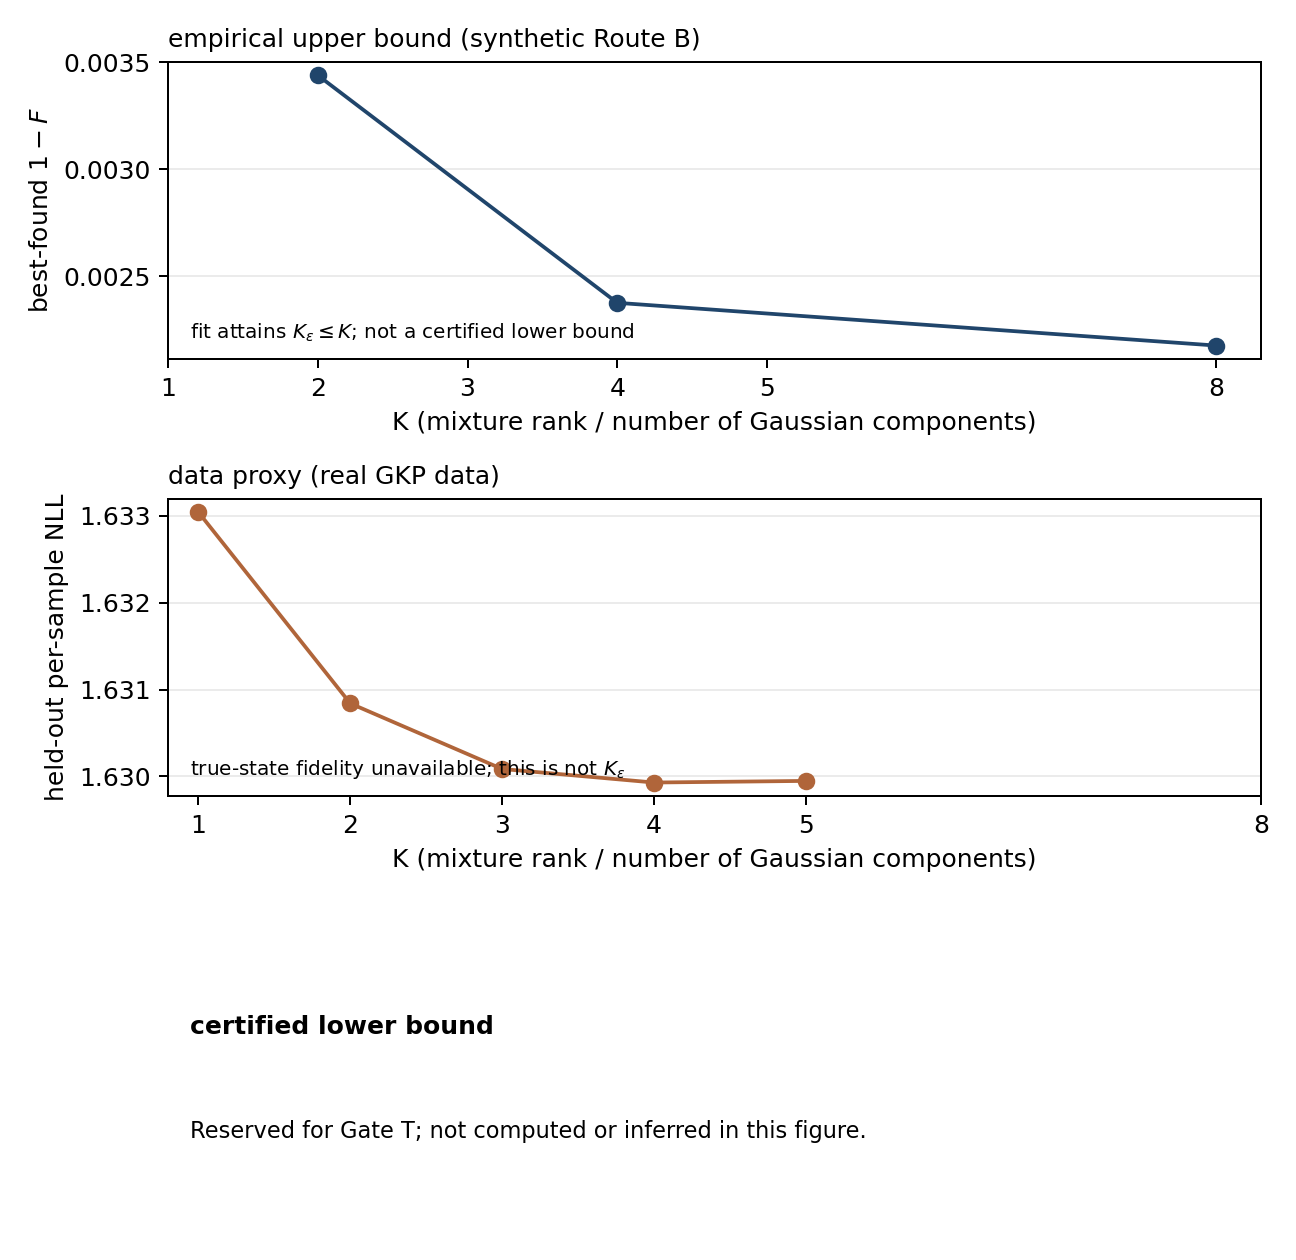
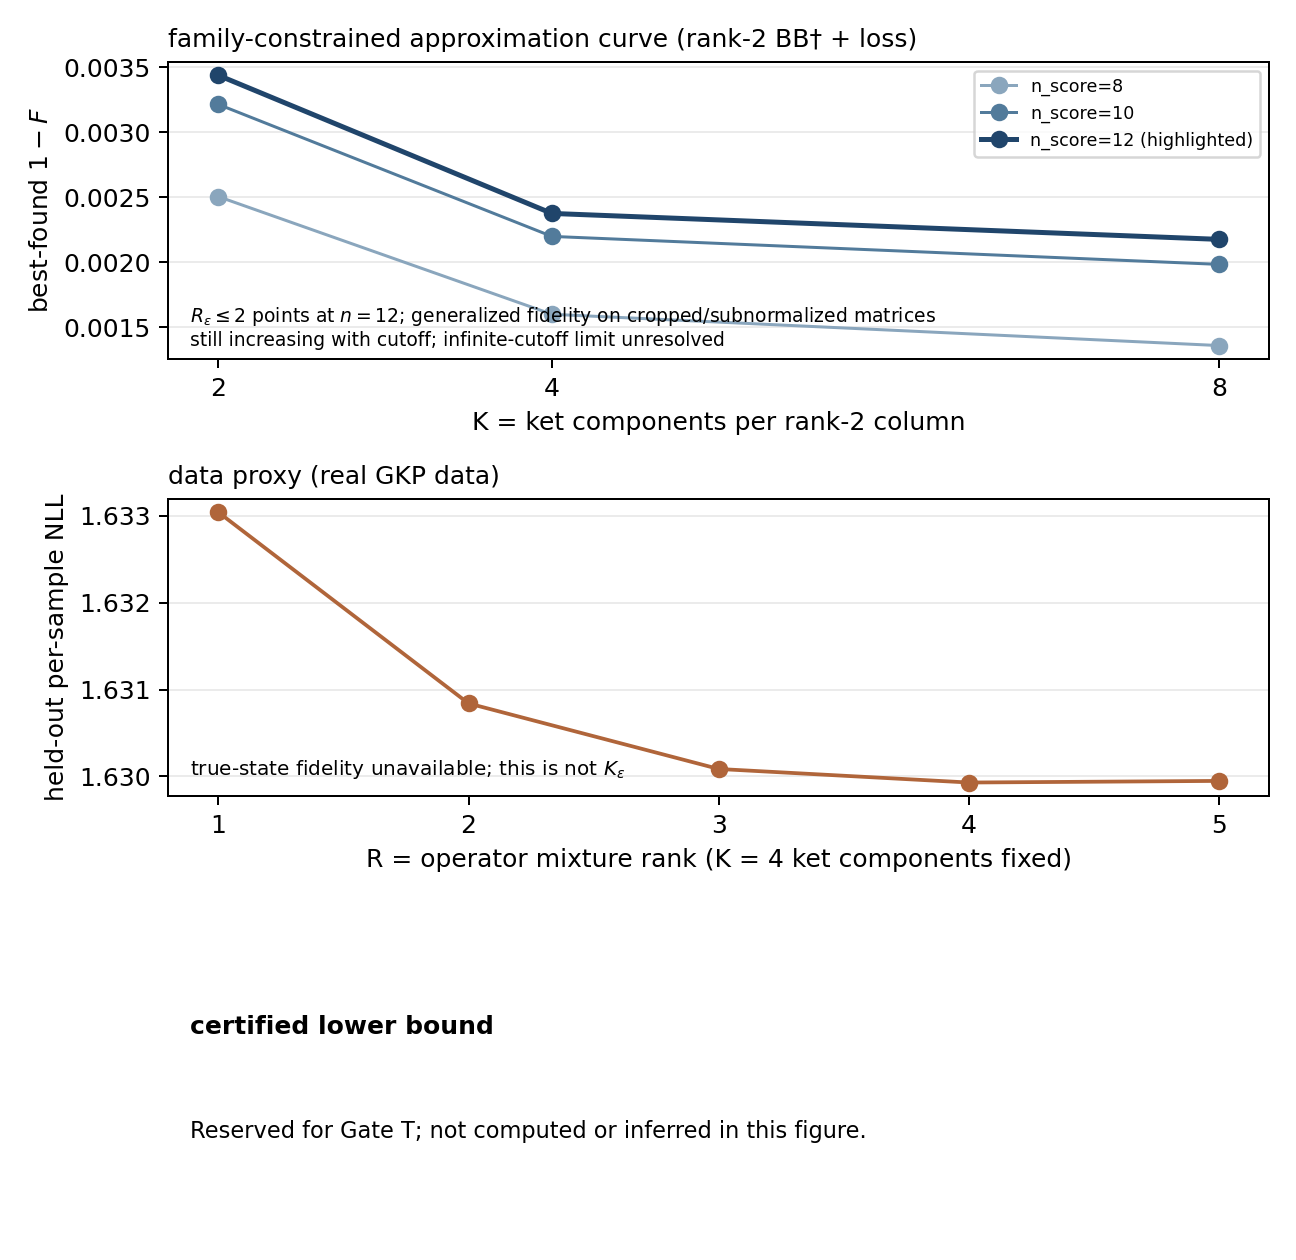
fix: clarify K-curve rank primitives

diff --git a/experiments/22_kcurves/kcurve_io.py b/experiments/22_kcurves/kcurve_io.py
@@ -12,7 +12,7 @@ EXPECTED_N_MAX = 12
 
 
 def extract_empirical_upper_bound(route_b_path: Path) -> dict:
-    """Extract best-found Route-B points at the largest scoring cutoff."""
+    """Extract the Route-B rank-2 family curve at every scored cutoff."""
     source = json.loads(route_b_path.read_text(encoding="utf-8"))
     params = source["params"]
     assert params["eta"] == EXPECTED_ETA, params
@@ -20,22 +20,41 @@ def extract_empirical_upper_bound(route_b_path: Path) -> dict:
     assert source["ruling"]["alarm"] is False, source["ruling"]
 
     rows = source["squeezed"]
-    n_max = max(row["n_score"] for row in rows)
-    assert n_max == EXPECTED_N_MAX, n_max
+    n_scores = sorted({row["n_score"] for row in rows})
+    assert n_scores == [8, 10, EXPECTED_N_MAX], n_scores
     ks = sorted({row["K"] for row in rows})
     assert ks == [2, 4, 8], ks
+    expected_seeds = {0, 1, 2}
     points = []
-    for k in ks:
-        candidates = [row for row in rows if row["K"] == k and row["n_score"] == n_max]
-        assert len(candidates) == 3, (k, candidates)
-        best = max(candidates, key=lambda row: row["F"])
-        assert 0.0 < best["F"] < 1.0, best
-        points.append({"K": k, "epsilon_upper": 1.0 - best["F"], "fidelity": best["F"], "eta_prime": best["eta_p"], "seed": best["seed"], "n_score": n_max})
+    for n_score in n_scores:
+        for k in ks:
+            candidates = [row for row in rows if row["K"] == k and row["n_score"] == n_score]
+            assert len(candidates) == len(expected_seeds), (n_score, k, candidates)
+            seeds = [row["seed"] for row in candidates]
+            assert set(seeds) == expected_seeds and len(set(seeds)) == len(seeds), (n_score, k, seeds)
+            best = max(candidates, key=lambda row: row["F"])
+            assert 0.0 < best["F"] < 1.0, best
+            points.append({"K": k, "epsilon": 1.0 - best["F"], "fidelity": best["F"], "eta_prime": best["eta_p"], "seed": best["seed"], "n_score": n_score})
 
-    assert abs(points[0]["epsilon_upper"] - 0.003438409405929571) < 1e-15
-    assert abs(points[1]["epsilon_upper"] - 0.0023747199770521996) < 1e-15
-    assert abs(points[2]["epsilon_upper"] - 0.0021749434414252145) < 1e-15
-    return {"schema_version": 1, "label": "empirical upper bound", "quantity": "best-found epsilon = 1 - F at fixed K", "interpretation": "A fit attains K_epsilon <= K; this is not a certified lower bound.", "source": "experiments/20_noninclusion/results_routeB.json", "params": {"eta": params["eta"], "sigma": params["sigma"], "n_score": n_max}, "points": points}
+    n12_points = [point for point in points if point["n_score"] == EXPECTED_N_MAX]
+    assert [point["K"] for point in n12_points] == [2, 4, 8]
+    assert abs(n12_points[0]["epsilon"] - 0.003438409405929571) < 1e-15
+    assert abs(n12_points[1]["epsilon"] - 0.0023747199770521996) < 1e-15
+    assert abs(n12_points[2]["epsilon"] - 0.0021749434414252145) < 1e-15
+    return {
+        "schema_version": 2,
+        "label": "family-constrained approximation curve",
+        "quantity": "best-found generalized-fidelity residual 1 - F within the fixed rank-2 BB† + loss family",
+        "rank_primitive": {"pre_loss_operator_rank_R": 2, "curve_x_axis": "K = ket components per rank-2 column"},
+        "fidelity_convention": "generalized Uhlmann fidelity for cropped/subnormalized matrices",
+        "cutoff_status": "still increasing with cutoff; infinite-cutoff limit unresolved",
+        "epistemic_status": "empirical best-found family-constrained approximation; not a certified lower bound and not an upper bound on K_epsilon^{G,F}",
+        "r_epsilon_upper_points": {"claim": "At n_score=12, each fit demonstrates R_epsilon <= 2 at its listed epsilon; K only varies the ket components per rank-2 column.", "points": n12_points},
+        "certified_lower_bound_reservation": {"status": "reserved_not_computed", "scope": "Gate T certified lower bounds"},
+        "source": "experiments/20_noninclusion/results_routeB.json",
+        "params": {"eta": params["eta"], "sigma": params["sigma"], "n_scores": n_scores},
+        "points": points,
+    }
 
 
 def _exp14_primary_rank_points(exp14_log_path: Path) -> dict[int, float]:
@@ -51,15 +70,31 @@ def extract_data_proxy(exp18_path: Path, exp14_log_path: Path) -> dict:
     source = json.loads(exp18_path.read_text(encoding="utf-8"))
     primary = source["primary"]
     fits = primary["fits"]
-    assert primary["mle_best"] == {"n_max": 16, "dof": 255, "test": 1.629838692906455}
+    mle_best = primary["mle_best"]
+    assert mle_best["n_max"] == 16, mle_best
+    assert mle_best["dof"] == 255, mle_best
+    assert mle_best["test"] == 1.629838692906455, mle_best
     assert primary["cis"]["r4_mle"][:2] == [-1.8046357874321374e-05, 0.00019604652582752948]
     assert source["alternate"]["cis"]["r4_mle"][:2] == [-0.00016675900530110381, 2.7269914027297554e-05]
 
-    points = [{"K": rank, "held_out_per_sample_nll": nll, "source": "exp14 committed log"} for rank, nll in _exp14_primary_rank_points(exp14_log_path).items()]
+    points = [{"R": rank, "held_out_per_sample_nll": nll, "source": "exp14 committed log"} for rank, nll in _exp14_primary_rank_points(exp14_log_path).items()]
     for rank in (3, 4, 5):
         fit = fits[f"R{rank}K4"]
         assert fit["dof"] == 23 * rank, fit
-        points.append({"K": rank, "held_out_per_sample_nll": fit["test"], "dof": fit["dof"], "source": "exp18 results JSON"})
-    assert [point["K"] for point in points] == [1, 2, 3, 4, 5]
+        points.append({"R": rank, "held_out_per_sample_nll": fit["test"], "dof": fit["dof"], "source": "exp18 results JSON"})
+    assert [point["R"] for point in points] == [1, 2, 3, 4, 5]
     assert abs(points[3]["held_out_per_sample_nll"] - 1.6299296036916187) < 1e-15
-    return {"schema_version": 1, "label": "data proxy", "quantity": "held-out per-sample NLL vs mixture rank K", "interpretation": "Real-data true-state fidelity is unavailable; this is not K_epsilon.", "source": ["experiments/18_gkp_saturation/results.json", "experiments/14_gkp_rank/out_run.log"], "primary_split": "seed 0", "ci_vs_test_selected_mle": {"R4_primary_95": primary["cis"]["r4_mle"][:2], "R4_alternate_95": source["alternate"]["cis"]["r4_mle"][:2]}, "points": points}
+    return {
+        "schema_version": 2,
+        "label": "data proxy",
+        "quantity": "held-out per-sample NLL vs operator mixture rank R (K=4 ket components fixed)",
+        "rank_primitive": {"curve_x_axis": "R = operator mixture rank", "ket_components_per_rank_column_K": 4},
+        "fidelity_convention": "not available: real-data true-state fidelity is inaccessible",
+        "cutoff_status": "not applicable: this is a fixed reconstruction schedule, not a fidelity cutoff sweep",
+        "epistemic_status": "data proxy only; not K_epsilon^{G,F} and not a certified lower bound",
+        "certified_lower_bound_reservation": {"status": "reserved_not_computed", "scope": "Gate T certified lower bounds"},
+        "source": ["experiments/18_gkp_saturation/results.json", "experiments/14_gkp_rank/out_run.log"],
+        "primary_split": "seed 0",
+        "ci_vs_test_selected_mle": {"R4_primary_95": primary["cis"]["r4_mle"][:2], "R4_alternate_95": source["alternate"]["cis"]["r4_mle"][:2]},
+        "points": points,
+    }

diff --git a/experiments/22_kcurves/run.py b/experiments/22_kcurves/run.py
@@ -21,15 +21,19 @@ def _write_json(path: Path, payload: dict) -> None:
 
 def make_figure(upper: dict, proxy: dict, output: Path) -> None:
     fig, (ax_upper, ax_proxy, ax_lower) = plt.subplots(3, 1, figsize=(7.2, 7.0))
-    upper_points = upper["points"]
-    ax_upper.plot([p["K"] for p in upper_points], [p["epsilon_upper"] for p in upper_points], marker="o", color="#20456b")
+    for n_score, color in ((8, "#8aa6bd"), (10, "#527b9b"), (12, "#20456b")):
+        points = [point for point in upper["points"] if point["n_score"] == n_score]
+        ax_upper.plot([p["K"] for p in points], [p["epsilon"] for p in points], marker="o", color=color, linewidth=2 if n_score == 12 else 1.2, label=f"n_score={n_score}" + (" (highlighted)" if n_score == 12 else ""))
     ax_upper.set_ylabel("best-found $1-F$")
-    ax_upper.set_title("empirical upper bound (synthetic Route B)", loc="left", fontsize=10)
-    ax_upper.text(0.02, 0.05, "fit attains $K_\\epsilon \\leq K$; not a certified lower bound", transform=ax_upper.transAxes, fontsize=8, va="bottom")
+    ax_upper.set_xlabel("K = ket components per rank-2 column")
+    ax_upper.set_title("family-constrained approximation curve (rank-2 BB† + loss)", loc="left", fontsize=10)
+    ax_upper.text(0.02, 0.03, "$R_\\epsilon \\leq 2$ points at $n=12$; generalized fidelity on cropped/subnormalized matrices\nstill increasing with cutoff; infinite-cutoff limit unresolved", transform=ax_upper.transAxes, fontsize=7.5, va="bottom")
+    ax_upper.legend(fontsize=7, loc="upper right")
     ax_upper.grid(axis="y", alpha=0.25)
 
     proxy_points = proxy["points"]
-    ax_proxy.plot([p["K"] for p in proxy_points], [p["held_out_per_sample_nll"] for p in proxy_points], marker="o", color="#b0653a")
+    ax_proxy.set_xlabel("R = operator mixture rank (K = 4 ket components fixed)")
+    ax_proxy.plot([p["R"] for p in proxy_points], [p["held_out_per_sample_nll"] for p in proxy_points], marker="o", color="#b0653a")
     ax_proxy.set_ylabel("held-out per-sample NLL")
     ax_proxy.set_title("data proxy (real GKP data)", loc="left", fontsize=10)
     ax_proxy.text(0.02, 0.05, "true-state fidelity unavailable; this is not $K_\\epsilon$", transform=ax_proxy.transAxes, fontsize=8, va="bottom")
@@ -39,9 +43,8 @@ def make_figure(upper: dict, proxy: dict, output: Path) -> None:
     ax_lower.text(0.02, 0.67, "certified lower bound", fontsize=10, fontweight="bold", transform=ax_lower.transAxes)
     ax_lower.text(0.02, 0.32, "Reserved for Gate T; not computed or inferred in this figure.", fontsize=9, transform=ax_lower.transAxes)
     for spine in ax_lower.spines.values(): spine.set_visible(True)
-    for axis in (ax_upper, ax_proxy):
-        axis.set_xlabel("K (mixture rank / number of Gaussian components)")
-        axis.set_xticks([1, 2, 3, 4, 5, 8])
+    ax_upper.set_xticks([2, 4, 8])
+    ax_proxy.set_xticks([1, 2, 3, 4, 5])
     fig.tight_layout()
     fig.savefig(output, dpi=180, metadata={"Software": "matplotlib"})
     plt.close(fig)

diff --git a/tests/test_kcurves.py b/tests/test_kcurves.py
@@ -14,12 +14,14 @@ kcurve_io = importlib.util.module_from_spec(spec)
 spec.loader.exec_module(kcurve_io)
 
 
-def test_committed_empirical_upper_bound_extracts_largest_cutoff():
+def test_committed_family_curve_extracts_all_cutoffs_and_rank_primitives():
     curve = kcurve_io.extract_empirical_upper_bound(ROOT / "experiments/20_noninclusion/results_routeB.json")
-    assert curve["label"] == "empirical upper bound"
-    assert [p["K"] for p in curve["points"]] == [2, 4, 8]
-    assert [p["n_score"] for p in curve["points"]] == [12, 12, 12]
-    assert curve["points"][-1]["epsilon_upper"] == pytest.approx(0.0021749434414252145)
+    assert curve["label"] == "family-constrained approximation curve"
+    assert len(curve["points"]) == 9
+    assert {(p["n_score"], p["K"]) for p in curve["points"]} == {(n, k) for n in (8, 10, 12) for k in (2, 4, 8)}
+    assert curve["rank_primitive"]["pre_loss_operator_rank_R"] == 2
+    assert curve["r_epsilon_upper_points"]["points"][-1]["epsilon"] == pytest.approx(0.0021749434414252145)
+    assert curve["cutoff_status"] == "still increasing with cutoff; infinite-cutoff limit unresolved"
 
 
 def test_stale_route_b_params_fail_loudly(tmp_path):
@@ -31,9 +33,19 @@ def test_stale_route_b_params_fail_loudly(tmp_path):
         kcurve_io.extract_empirical_upper_bound(path)
 
 
+def test_route_b_missing_cell_or_duplicate_seed_fails_loudly(tmp_path):
+    raw = json.loads((ROOT / "experiments/20_noninclusion/results_routeB.json").read_text())
+    raw["squeezed"][1]["seed"] = 0
+    path = tmp_path / "route_b.json"
+    path.write_text(json.dumps(raw))
+    with pytest.raises(AssertionError):
+        kcurve_io.extract_empirical_upper_bound(path)
+
+
 def test_data_proxy_has_ranks_one_through_five_and_ci_checks():
     curve = kcurve_io.extract_data_proxy(ROOT / "experiments/18_gkp_saturation/results.json", ROOT / "experiments/14_gkp_rank/out_run.log")
     assert curve["label"] == "data proxy"
-    assert [p["K"] for p in curve["points"]] == [1, 2, 3, 4, 5]
+    assert [p["R"] for p in curve["points"]] == [1, 2, 3, 4, 5]
     assert curve["points"][3]["held_out_per_sample_nll"] == pytest.approx(1.6299296036916187)
     assert curve["ci_vs_test_selected_mle"]["R4_primary_95"] == pytest.approx([-0.000018046357874321374, 0.00019604652582752948])
+    assert curve["rank_primitive"]["ket_components_per_rank_column_K"] == 4

diff --git a/experiments/22_kcurves/README.md b/experiments/22_kcurves/README.md
@@ -2,11 +2,11 @@
 
 `run.py` is a fit-free reanalysis of committed artifacts. It generates:
 
-- `empirical_upper_bound.json`: Route B at the largest scoring cutoff (`n_score=12`). A fitted K-component state attains each point, so it is an **empirical upper bound** (`K_epsilon <= K`), not a certified lower bound.
-- `data_proxy.json`: held-out per-sample NLL by mixture rank on the real GKP data. It is a **data proxy** because true-state fidelity, and hence `K_epsilon`, is inaccessible on the data.
+- `empirical_upper_bound.json`: the synthetic Route-B **family-constrained approximation curve**. Its fixed pre-loss operator rank is `R=2`; its x-axis `K={2,4,8}` is the number of Gaussian ket components per rank-2 column. It stores every `n_score={8,10,12} × K` best-fit point, highlights `n_score=12`, and records the corresponding empirical `R_epsilon <= 2` points. The generalized fidelity is for cropped/subnormalized matrices; it is still increasing with cutoff, so the infinite-cutoff limit is unresolved.
+- `data_proxy.json`: held-out per-sample NLL by operator mixture rank `R` on the real GKP data, with `K=4` ket components fixed. It is a **data proxy** because true-state fidelity, and hence `K_epsilon`, is inaccessible on the data.
 - `kcurves.png`: the two curves plus an explicitly empty **certified lower bound** panel reserved for Gate T.
 
-The script asserts the committed Route-B parameters (`eta=0.8`, `sigma=0.1`), cutoff, ruling flag, GKP test-selected frontier, and both R4 confidence intervals. It refuses stale or differently configured inputs instead of silently drawing them.
+Both JSON artifacts carry machine-readable rank primitive, fidelity convention, cutoff status, epistemic status, and the reserved certified-lower-bound slot. The script asserts the committed Route-B parameters (`eta=0.8`, `sigma=0.1`), every 3-cutoff × 3-K × 3-seed cell and seed uniqueness, ruling flag, GKP test-selected frontier, and both R4 confidence intervals. It refuses stale or differently configured inputs instead of silently drawing them.
 
 Reproduce with the repository virtual environment:
 
@@ -14,4 +14,4 @@ Reproduce with the repository virtual environment:
 & C:\dev\wigner-splat\.venv\Scripts\python.exe experiments\22_kcurves\run.py
 ```
 
-PR self-report: this change uses only the labels **empirical upper bound**, **data proxy**, and the reserved **certified lower bound** panel; it makes no claim beyond those scopes.
+PR self-report: the figure separates a cutoff-scored synthetic family curve from a real-data rank proxy, and reserves (without computing) a certified lower-bound panel.

diff --git a/docs/research-log.md b/docs/research-log.md
@@ -1740,8 +1740,15 @@ tests passed. Exact recipes and hashes are in
 
 Owner/decision: orange approved the issue #71 Gate D labeling discipline and
 delegated this non-fitting reanalysis in parallel with Gate T. `experiments/22_kcurves/`
-extracts the synthetic Route-B best-found `1 - F` curve as an **empirical upper
-bound** and the real GKP held-out per-sample NLL curve as a **data proxy**.
+separates the synthetic Route-B cutoff-scored **family-constrained approximation
+curve** from the real GKP held-out per-sample NLL **rank proxy**. Route B fixes
+pre-loss operator rank `R=2`; its `K={2,4,8}` axis is ket components per rank-2
+column, not the GKP mixture-rank axis. The figure stores all `n_score={8,10,12}`
+series and highlights `n=12`: generalized fidelity is for cropped/subnormalized
+matrices, is still increasing with cutoff, and has no resolved infinite-cutoff
+limit. The `n=12` points empirically demonstrate `R_epsilon <= 2` at their
+listed residuals, while the family curve itself is neither a K-epsilon bound nor
+a certified lower bound.
 The output reserves, but does not calculate, a **certified lower bound** panel
 for Gate T. The generator asserts committed Route-B parameters/ruling and the
 GKP CI/frontier checkpoints; no new fit or GPU work ran.
